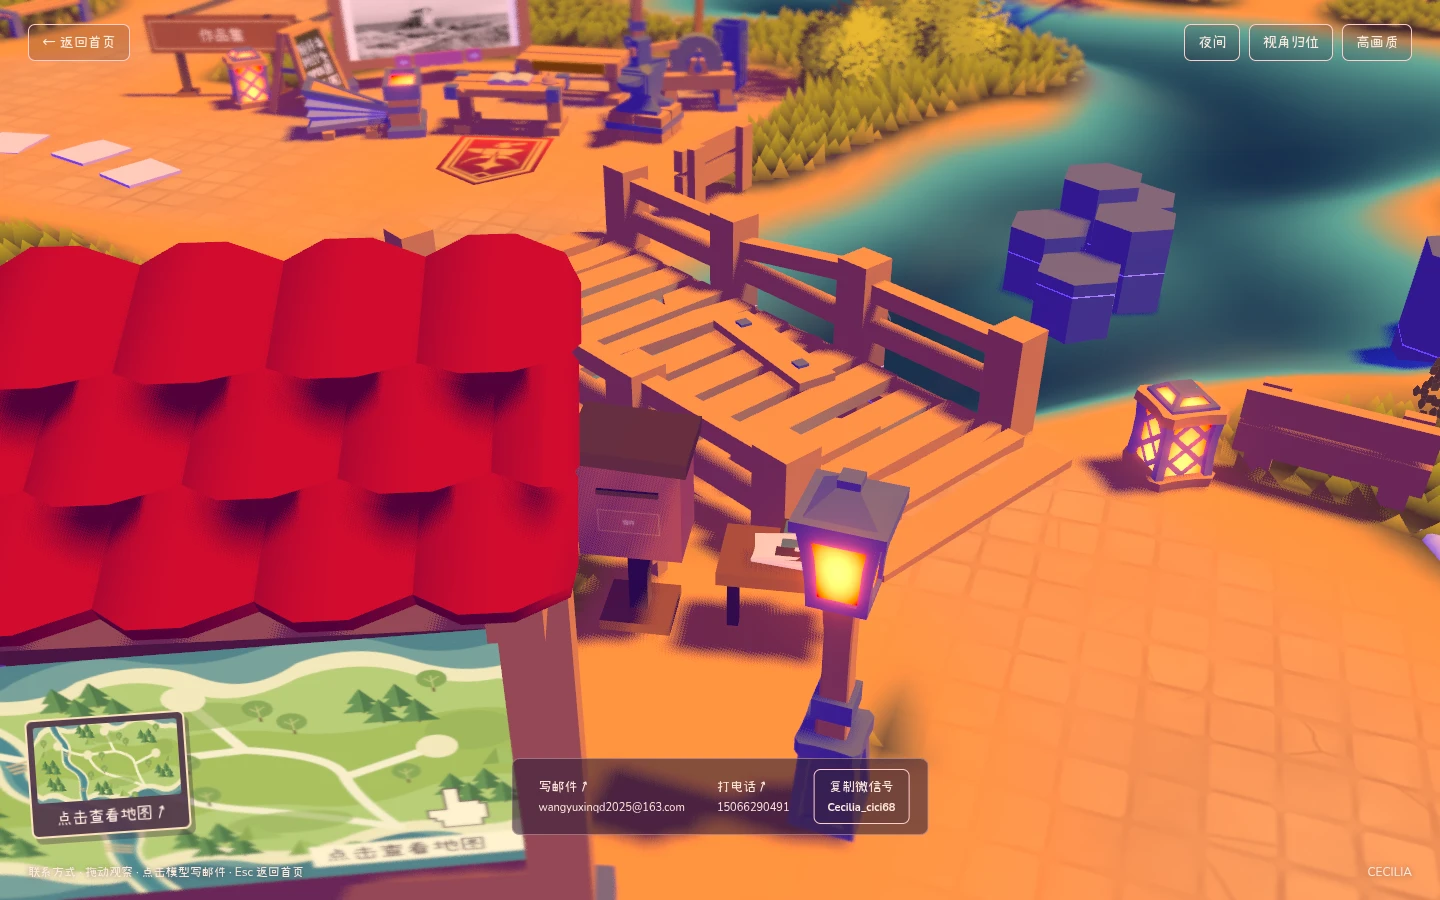
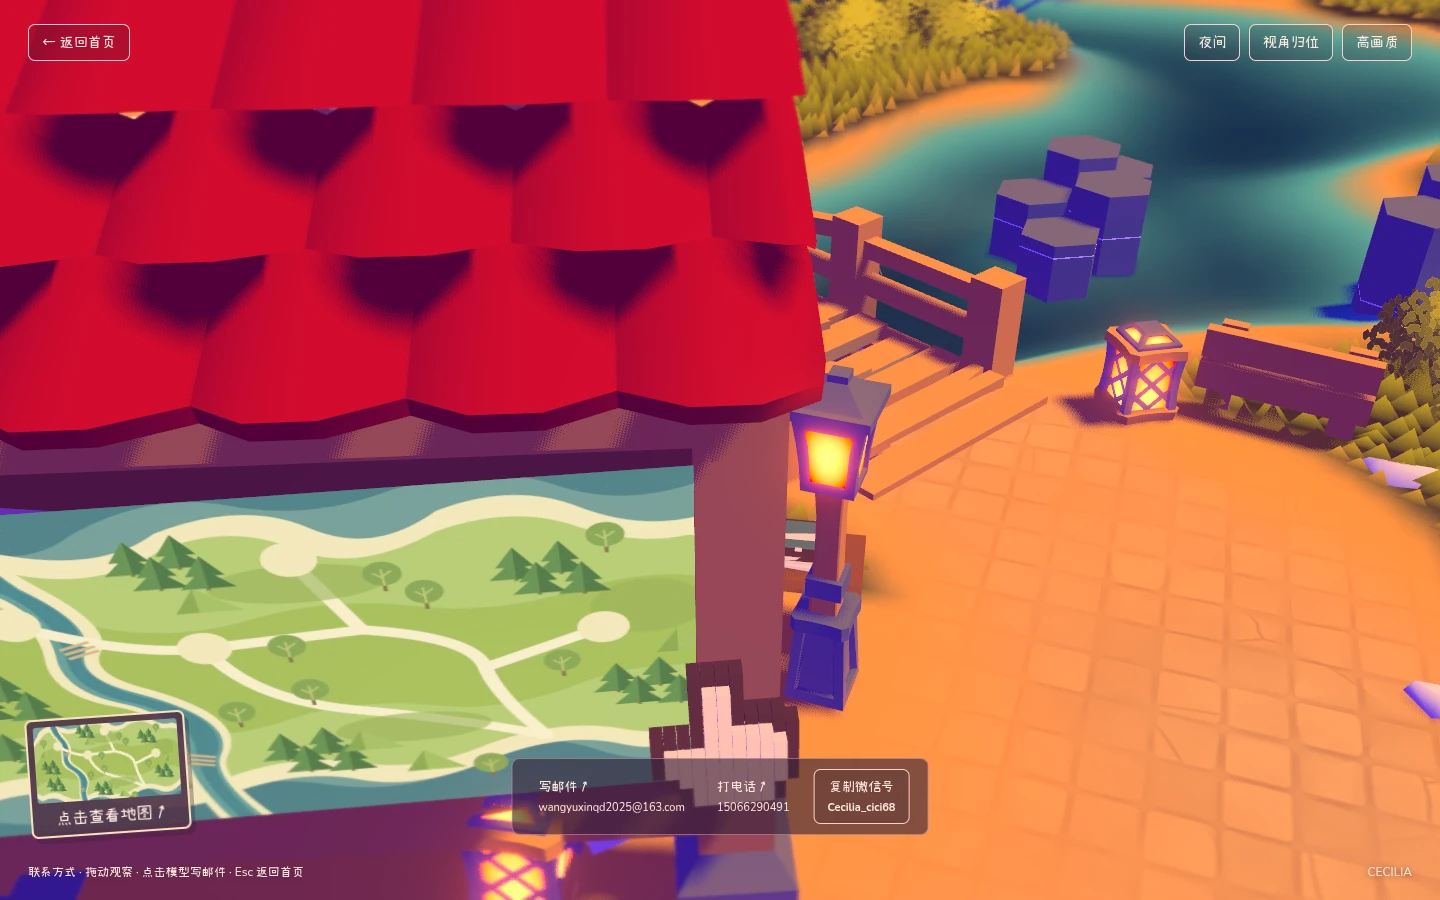
Verify real foot contacts and marked gamepad placement with close-up regression previews

diff --git a/experiments/bruno-projects/src/scene-fixtures.js b/experiments/bruno-projects/src/scene-fixtures.js
@@ -38,7 +38,7 @@ export function createFixtures(world) {
     const cross=(a,b,c)=>(b[0]-a[0])*(c[1]-a[1])-(b[1]-a[1])*(c[0]-a[0]);
     const lower=[],upper=[];
     for(const p of unique){while(lower.length>1&&cross(lower.at(-2),lower.at(-1),p)<=0)lower.pop();lower.push(p);}
-    for(const p of unique.toReversed()){while(upper.length>1&&cross(upper.at(-2),upper.at(-1),p)<=0)upper.pop();upper.push(p);}
+    for(const p of [...unique].reverse()){while(upper.length>1&&cross(upper.at(-2),upper.at(-1),p)<=0)upper.pop();upper.push(p);}
     return lower.slice(0,-1).concat(upper.slice(0,-1));
   }
   function overlaps(a,b){

diff --git a/WEBSITE_WORLD_PROGRESS.md b/WEBSITE_WORLD_PROGRESS.md
@@ -9,7 +9,8 @@
 - 板面恢复纯地图纹理，删除文字和烘焙手形。新建独立像素立体手指，实际挂接在板框 physicalFixed009 上，且手指本体可以点击打开地图。
 - 手柄外壳使用 body002 顶点接地、取消初始倾斜和点击时整体翘起；缩小到原生模型 .55 倍，并将可见外壳中心精确放在 (37.9,40.8)，对应截图中三轴与摇杆之间、摇杆左侧的标记空地。三轴／摇杆保留上一版的平面位置。
 - 相邻小模型用实际不透明外形的二维凸包检查间距，不用虚大的包围盒把手柄推离标记。简历、项目正文、镜头逻辑与灯光联动不改。
-- 精确接地初版已实际通过两脚与外壳顶点验证并截取正面／侧面近景；标记位置细调后的最后回归进行中。未发布。
+- 已保存检查点 04a8cd9。`visible-support.cjs` 已通过最终位置的两脚、外壳实际顶点、原始纯地图纹理、独立手指点击检查；正面／侧面／手柄近景已逐张查看。`landing-controls.cjs` 与默认渲染器／手机 `entry-preview.cjs` 已通过。旧通用测试已改为检查按钮动作且外壳保持稳定，不再要求手柄整体翘起。
+- 分类导航完整回归、手机地图与原路由回归已通过；简历／作品内部源码对比 f82020b 无改动。最终构建通过，准备提交发布，GitHub Pages 任务成功后再确认上线。
 
 ## 当前增量：入口组合／欢迎牌／灯光联动／镜头归位
 

diff --git a/experiments/bruno-projects/public/review/README.md b/experiments/bruno-projects/public/review/README.md
@@ -11,6 +11,8 @@
 - `navigation-map.webp` / `navigation-map-mobile.webp`：桌面、手机实际展开的导航地图。
 - `entry-name-lit.webp` / `entry-map-flash.webp`：点击手柄后的姓名常亮、点击开关后的地图板单次闪亮。
 - `entry-reset.webp`：平移、旋转及进入分类后归位的镜头；自动断言其参数与首次 Landing 完全一致。
+- `map-board-grounded.webp` / `map-board-side.webp`：放大后的地图牌正面／侧面，核对两只实际支脚、纯地图板面和独立像素手指。
+- `gamepad-grounded.webp`：标记位置的缩小手柄，按可见外壳顶点核对落地；不是用包围盒虚拟角点判断。
 
 本轮 `home*` 展示像素积木姓名和原生游戏设备的入口近景；`navigation-map*` 展示实际打开的居中插画地图，导航和木牌使用小赖字体。简历正文保留原系统字体，作品内部不改。
 
